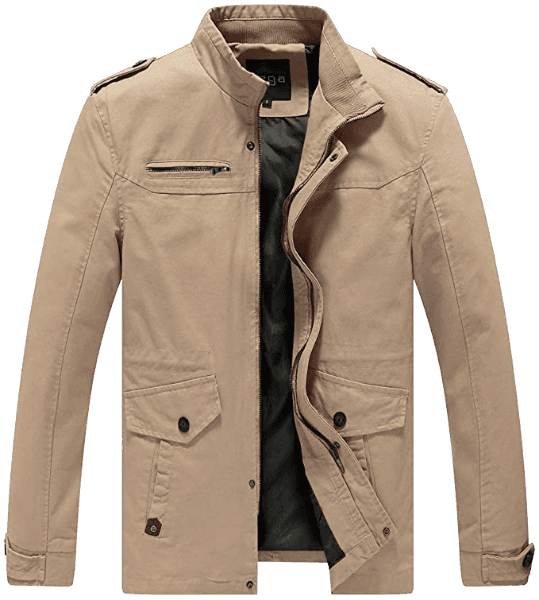
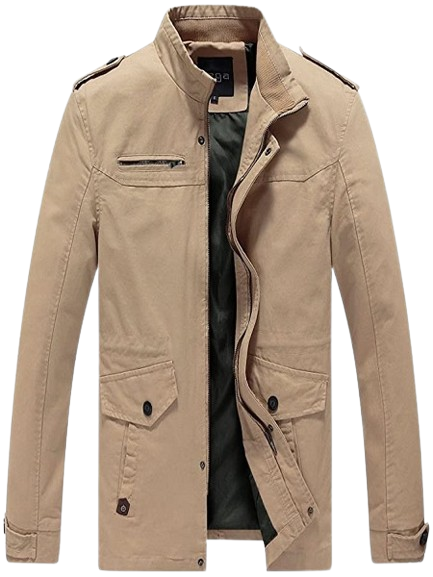
Ajuste de imagenes y contact

diff --git a/index.html b/index.html
@@ -77,7 +77,7 @@
             <a href="#" class="row-btn">Muéstrame todo</a>
           </div>
           <div class="row-img">
-            <img src="img/collection/opnawomen.png" alt="" />
+            <img src="img/collection/MensCottonJacket.png" alt="" />
           </div>
         </div>
       </div>
@@ -109,7 +109,7 @@
             <a href="#" class="row-btn">Muéstrame todo</a>
           </div>
           <div class="row-img">
-            <img src="img/collection/opnawomen.png" alt="" />
+            <img src="img/collection/rainjacketwomen.png" alt="" />
           </div>
         </div>
       </div>
@@ -236,35 +236,35 @@
   <section class="contact">
     <div class="main-contact">
       <div class="contact-content">
-        <h5>Getting started</h5>
-        <li><a href="#">Release Notes</a></li>
-        <li><a href="#">Upgrade Guide</a></li>
-        <li><a href="#">Browser Support</a></li>
-        <li><a href="#">Dark Mode</a></li>
+        <h5>Empezando</h5>
+        <li><a href="#">Notas de la versión</a></li>
+        <li><a href="#">Guía de actualización</a></li>
+        <li><a href="#">Compatibilidad con navegadores</a></li>
+        <li><a href="#">Modo oscuro</a></li>
       </div>
 
       <div class="contact-content">
-        <h5>Explore</h5>
-        <li><a href="#">Prototyping</a></li>
-        <li><a href="#">Design System</a></li>
-        <li><a href="#">Pricing</a></li>
-        <li><a href="#">Security</a></li>
+        <h5>Explorar</h5>
+        <li><a href="#">Prototipado</a></li>
+        <li><a href="#">Sistema de diseño</a></li>
+        <li><a href="#">Precios</a></li>
+        <li><a href="#">Seguridad</a></li>
       </div>
 
       <div class="contact-content">
-        <h5>Resources</h5>
-        <li><a href="#">Best practices</a></li>
-        <li><a href="#">Supportm</a></li>
-        <li><a href="#">Developers</a></li>
-        <li><a href="#">Learn design</a></li>
+        <h5>Recursos</h5>
+        <li><a href="#">Mejores prácticas</a></li>
+        <li><a href="#">Apoyo</a></li>
+        <li><a href="#">Desarrolladores</a></li>
+        <li><a href="#">Aprende diseño</a></li>
       </div>
 
       <div class="contact-content">
-        <h5>Community</h5>
-        <li><a href="#">Discussion Forums</a></li>
-        <li><a href="#">Code of Conduct</a></li>
-        <li><a href="#">Contributing</a></li>
-        <li><a href="#">API Reference</a></li>
+        <h5>Comunidad</h5>
+        <li><a href="#">Foros de discusión</a></li>
+        <li><a href="#">Código de conducta</a></li>
+        <li><a href="#">Contribuyendo</a></li>
+        <li><a href="#">Referencia API</a></li>
       </div>
     </div>
   </section>
